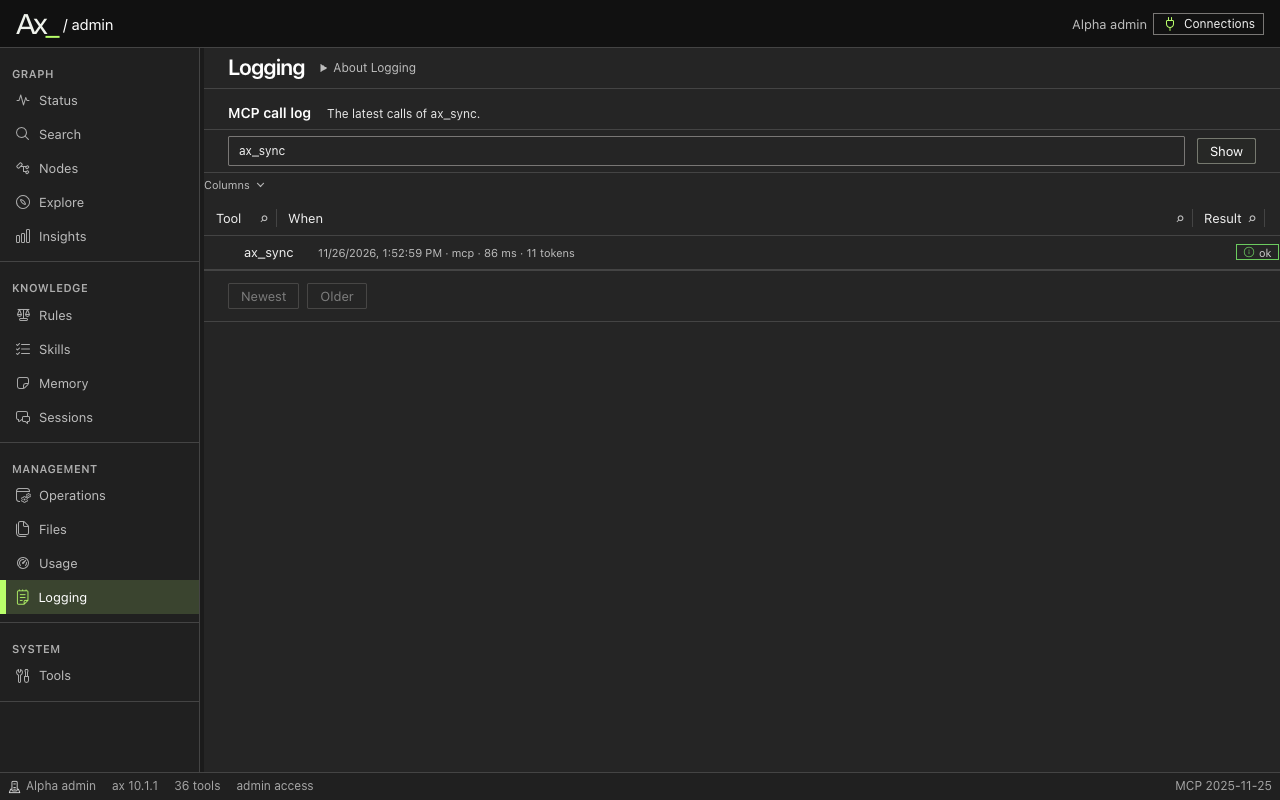
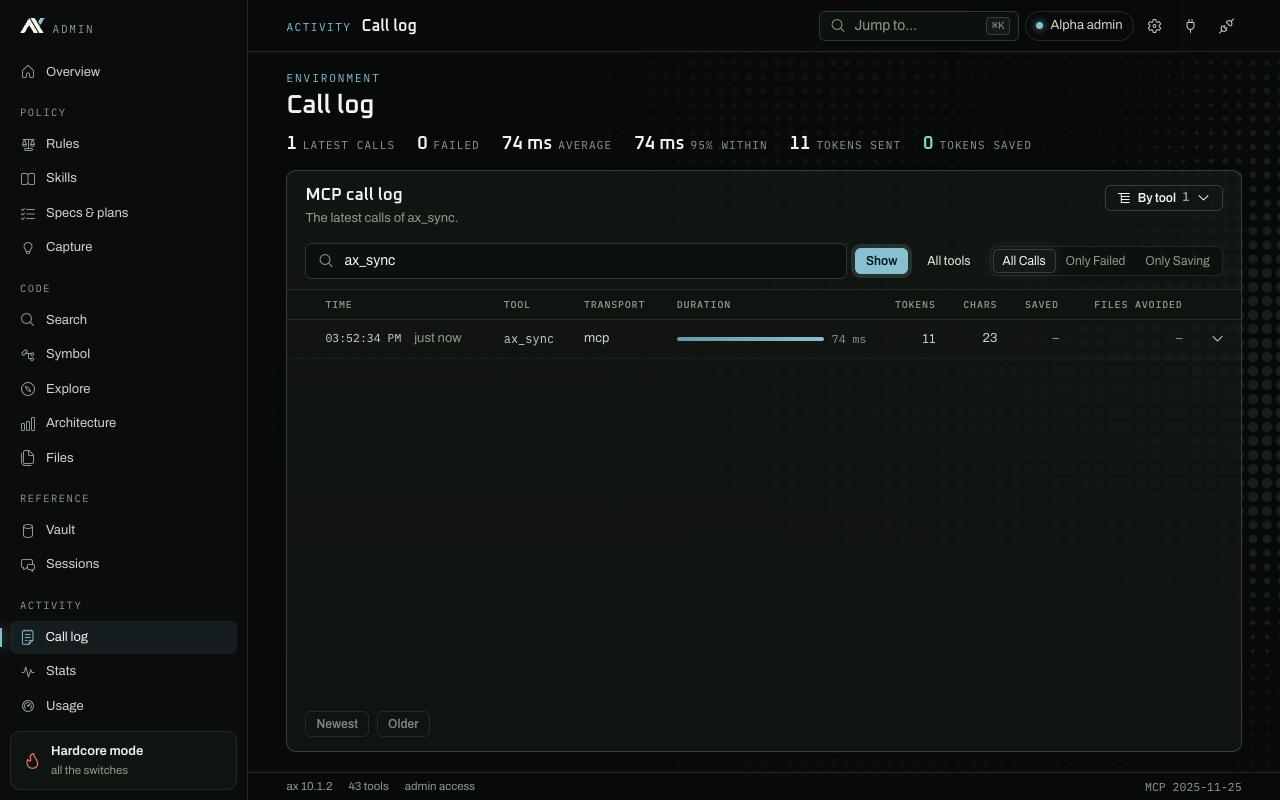
Retake the ax-admin screenshots in the Cursor accent.
The four ax-admin screenshots on the website now show the admin with the
Cursor frost accent, taken from the browser story against a headless ax.

diff --git a/site/src/content/docs/reference/mcp-server.md b/site/src/content/docs/reference/mcp-server.md
@@ -246,7 +246,7 @@ To watch what each tool receives, how preflight enrichment builds the inject blo
 3. Read today's `<project>/.ax/mcp-verbose-YYYY-MM-DD.log` for the project the agent is connected to. A new file starts each day and earlier days stay on disk. Lines are marked **Inbound** (what a tool received), **Outbound** (what ax sent back) or **Internal**.
 4. For a remote Ax, the **Logging** page of [ax-admin](/guides/remote-admin/) lists the MCP calls that environment handled: time, tool, result, duration and size. It needs the admin grant.
 
-![ax-admin — the Logging page with MCP calls](/screenshots/ax-admin-logging.png)
+![ax-admin — the MCP call log of an environment](/screenshots/ax-admin-logging.png)
 
 5. Score the session with `ax mcp audit`: correlation, enrichment, tool mix and findings, saved to `.ax/audit/latest.json`. Install `ax savings hook install` for `session=` tags.
 6. In Cursor, optionally also use **View → Output → ax / MCP Logs**.

diff --git a/site/src/content/docs/getting-started/introduction.md b/site/src/content/docs/getting-started/introduction.md
@@ -10,7 +10,7 @@ Ax is two programs:
 - **`ax`** is headless. It holds the knowledge graph, the memory and the policy engine, and serves them through the CLI and the MCP server. It has no built-in interface.
 - **`ax-admin`** is the visual interface. It is a separate application that connects to an Ax through its [remote MCP](/guides/remote-mcp/) address.
 
-![ax-admin — the Operations page with sync, rebuild index and reload policy](/screenshots/ax-admin-operations.png)
+![ax-admin — sync and rebuild index on a connected environment](/screenshots/ax-admin-operations.png)
 
 The full ax, with its built-in Command Center, is being phased out; see [Headless ax and ax-admin](/guides/phase-out/). The headless build is released for Linux today. On macOS and Windows you install the full ax, whose CLI and MCP server are the same commands. See [Installation](/getting-started/installation/).
 

diff --git a/site/src/content/docs/guides/remote-admin.md b/site/src/content/docs/guides/remote-admin.md
@@ -11,7 +11,7 @@ It is a separate application. It runs on your own computer and connects to an Ax
 `ax-admin` becomes the only visual interface of Ax. The Command Center (`ax web`) and the desktop client are being phased out together with the full ax. `ax-admin` works the same against the [headless build](/guides/headless-linux/) and against a full ax. See [Headless ax and ax-admin](/guides/phase-out/) for what moves where.
 :::
 
-![The Operations page of ax-admin connected to a headless Ax](/screenshots/ax-admin-operations.png)
+![ax-admin connected to a headless Ax, with sync and rebuild index](/screenshots/ax-admin-operations.png)
 
 ## How it connects
 
